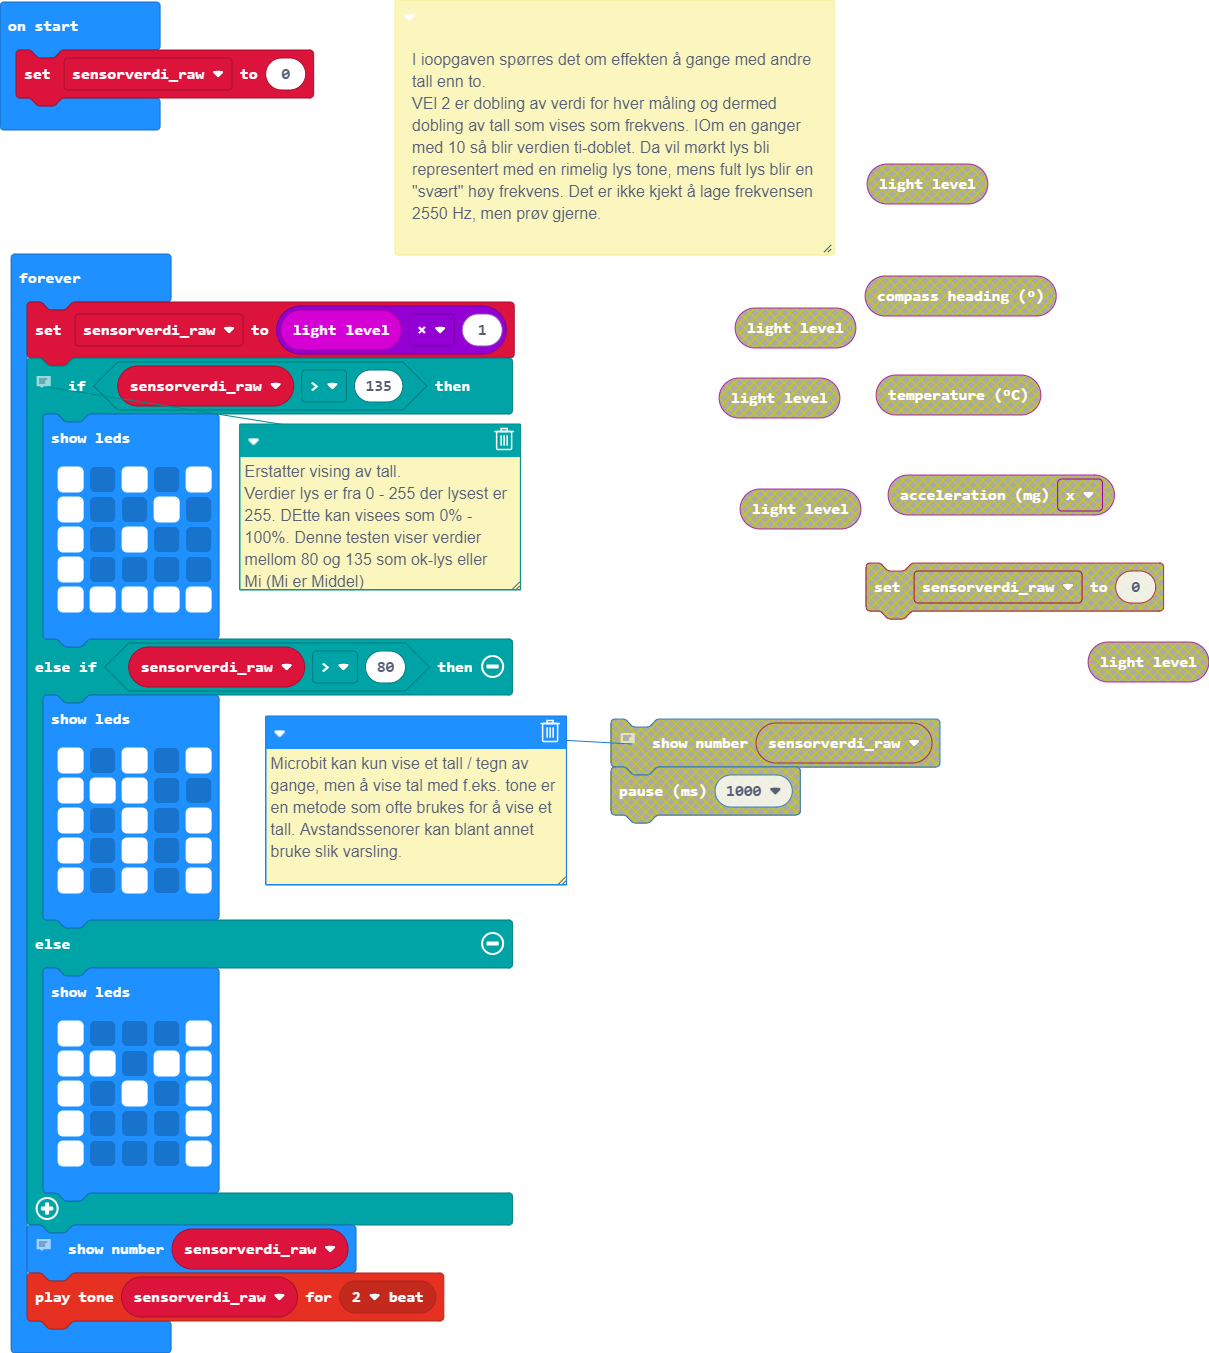
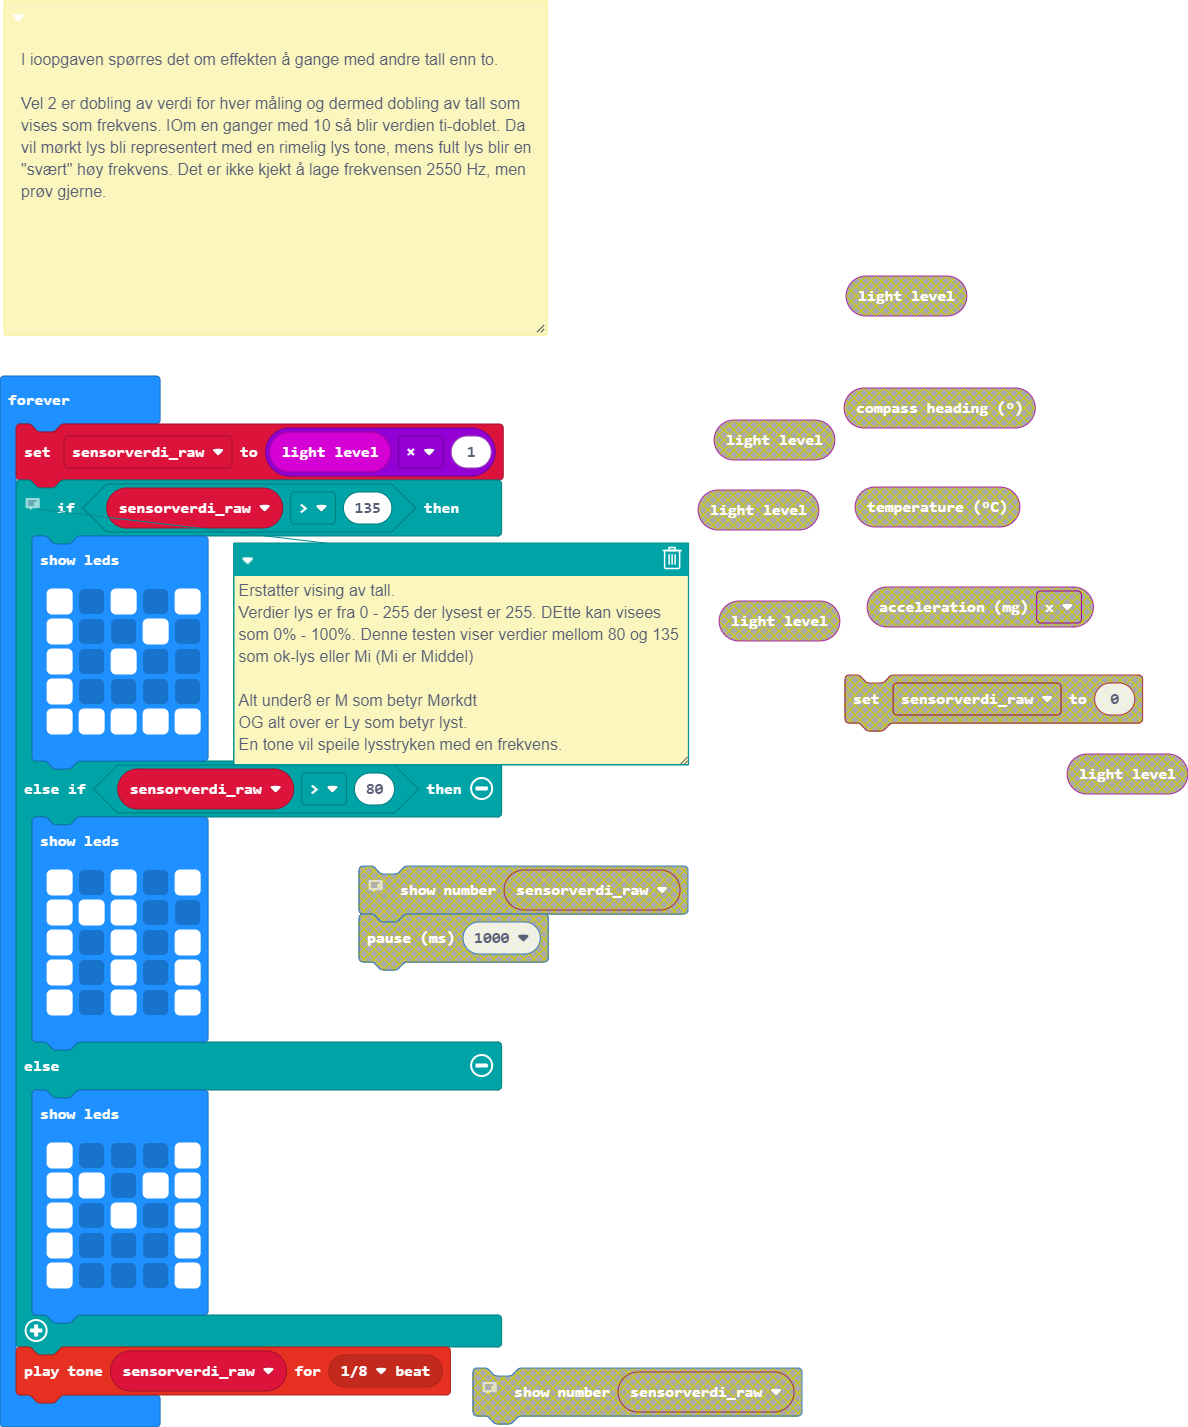
Levert

diff --git a/main.ts b/main.ts
@@ -2,13 +2,12 @@ let sensorverdi_raw = 0
 /**
  * I ioopgaven spørres det om effekten å gange med andre tall enn to.
  * 
- * VEl 2 er dobling av verdi for hver måling og dermed dobling av tall som vises som frekvens. IOm en ganger med 10 så blir verdien ti-doblet. Da vil mørkt lys bli representert med en rimelig lys tone, mens fult lys blir en "svært" høy frekvens. Det er ikke kjekt å lage frekvensen 2550 Hz, men prøv gjerne.
+ * Vel 2 er dobling av verdi for hver måling og dermed dobling av tall som vises som frekvens. IOm en ganger med 10 så blir verdien ti-doblet. Da vil mørkt lys bli representert med en rimelig lys tone, mens fult lys blir en "svært" høy frekvens. Det er ikke kjekt å lage frekvensen 2550 Hz, men prøv gjerne.
  */
 basic.forever(function () {
     sensorverdi_raw = input.lightLevel() * 1
     // Erstatter vising av tall.
-    // Verdier lys er fra 0 - 255 der lysest er 255. DEtte kan visees som 0% - 100%. Denne testen viser verdier mellom 80 og 135 som ok-lys eller 
-    // Mi (Mi er Middel)
+    // Verdier lys er fra 0 - 255 der lysest er 255. DEtte kan visees som 0% - 100%. Denne testen viser verdier mellom 80 og 135 som ok-lys eller Mi (Mi er Middel)
     // 
     // Alt under8 er M som betyr Mørkdt
     // OG alt over er Ly som betyr lyst.
@@ -38,7 +37,5 @@ basic.forever(function () {
             # . . . #
             `)
     }
-    // Microbit kan kun vise et tall / tegn av gange, men å vise tal med f.eks. tone er en metode som ofte brukes for å vise et tall. Avstandssenorer kan blant annet bruke slik varsling.
-    basic.showNumber(sensorverdi_raw)
-    music.playTone(sensorverdi_raw, music.beat(BeatFraction.Double))
+    music.playTone(sensorverdi_raw, music.beat(BeatFraction.Eighth))
 })
